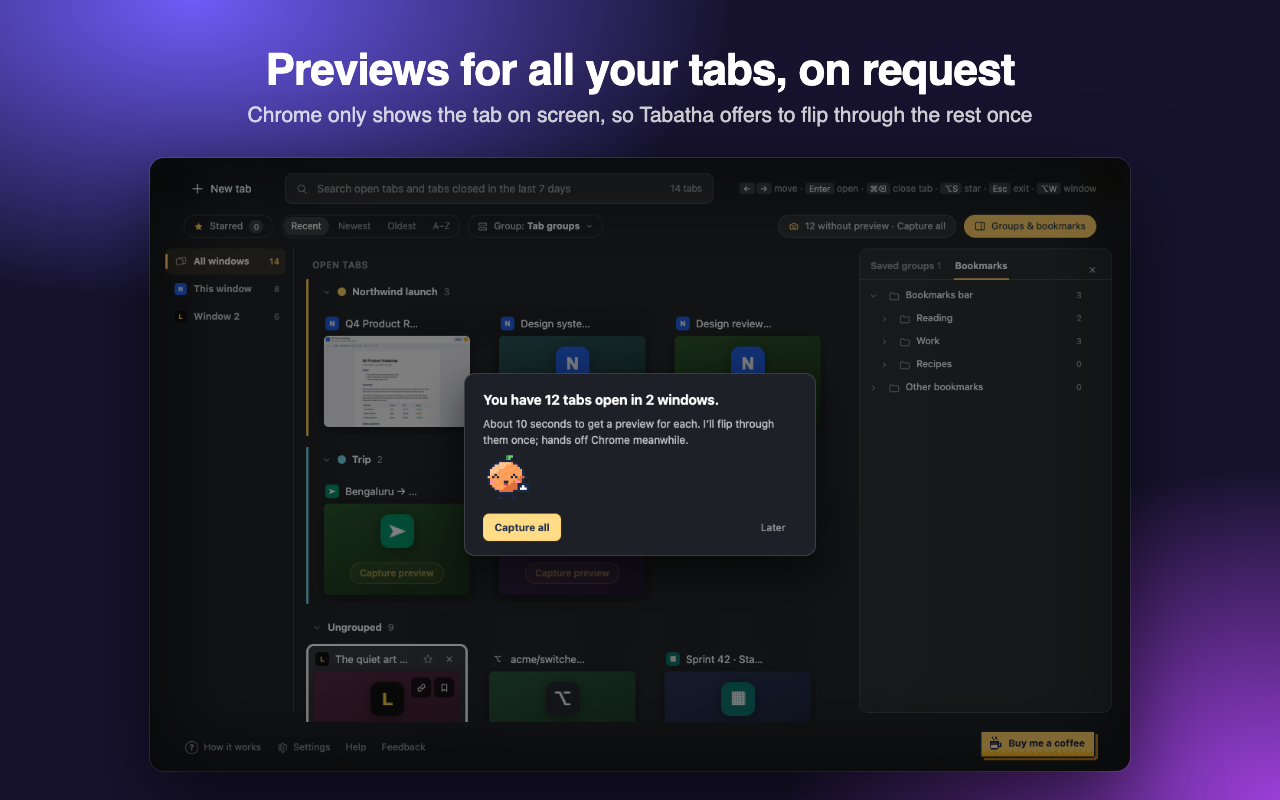
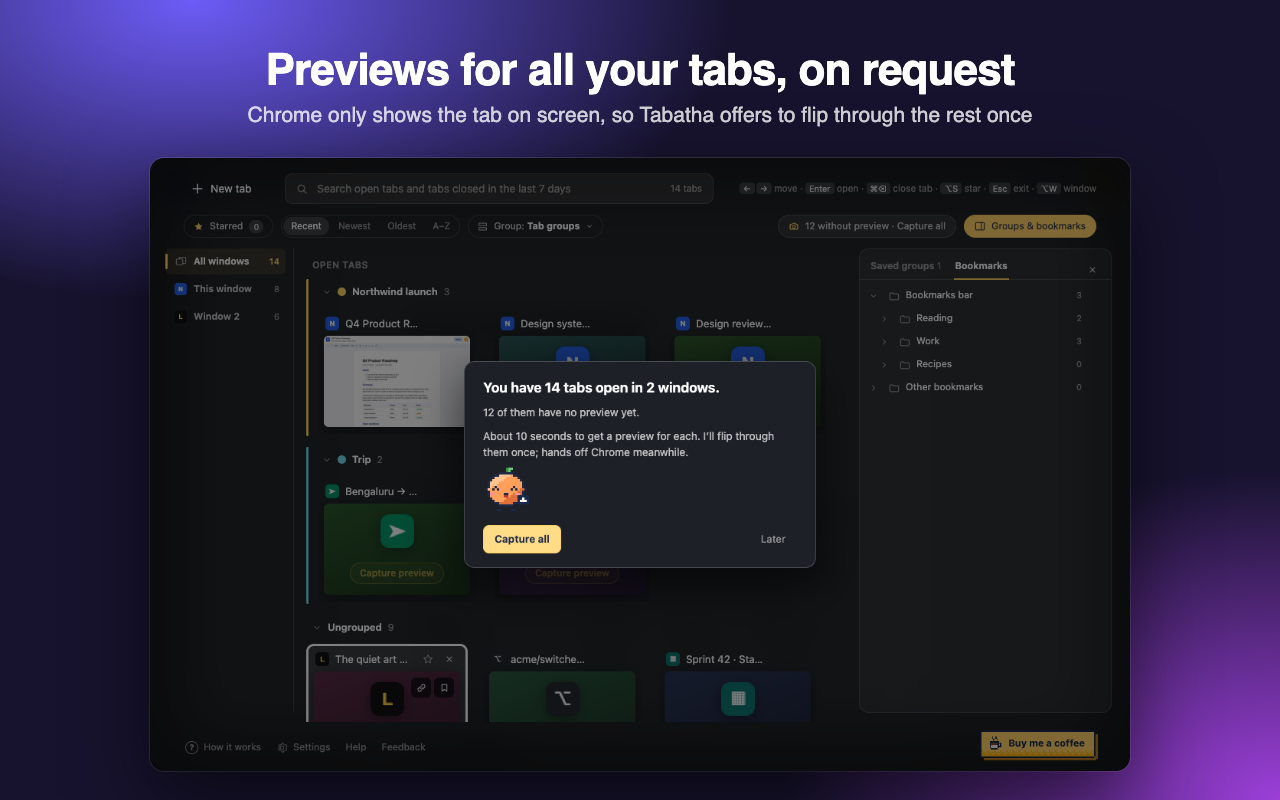
Capture card: the heading counts every open tab, a line says how many have no preview
"You have 14 tabs open in 2 windows." even when only 12 need a preview; then
"12 of them have no preview yet." (only when some already have one). The tier,
times and buttons still follow the 12. Tests read the real totals from Chrome;
a search leaving only bare tabs shows no extra line. Screenshot 06 regenerated.

Changed region(s): [[0.3438, 0.4375, 0.625, 0.7188], [0.5, 0.6562, 0.6562, 0.7188], [0.5625, 0.4375, 0.625, 0.4688]]

diff --git a/extension/switcher.js b/extension/switcher.js
@@ -2035,7 +2035,8 @@ function capPlan(scoped) {
   const todo = bare.filter(canCapture).sort((x, y) => order.get(x.id) - order.get(y.id));
   const sleeping = bare.filter((x) => x.discarded).length;
   const refused = bare.filter((x) => !x.discarded && !canCapture(x)).length;
-  return { todo, sleeping, refused, wins: new Set(todo.map((x) => x.windowId)).size, here: todo.filter((x) => x.windowId === CTX.srcWin) };
+  // total/wins: every tab the card is about (with or without a preview), for the heading; the tier follows todo.length.
+  return { todo, sleeping, refused, total: pool.length, wins: new Set(pool.map((x) => x.windowId)).size, here: todo.filter((x) => x.windowId === CTX.srcWin) };
 }
 // More than half of the open tabs Tabatha could capture have no preview (an updater gets the card then).
 function mostlyBare() {
@@ -2047,30 +2048,30 @@ function mostlyBare() {
 function offerCapture({ scoped = false, first = false, walk = null } = {}) {
   const plan = capPlan(scoped);
   if (!plan || !plan.todo.length) return false;
-  const n = plan.todo.length, w = plan.wins;
+  const n = plan.todo.length, w = plan.wins, all = plan.total; // n picks the tier, times and buttons; all is what the heading counts
   const answered = () => (first ? updateOnboard({ cap: VERSION }).catch(() => {}) : Promise.resolve());
   const later = async () => { await answered(); closeDialog(); if (walk !== null) startWalk(walk); };
   const go = (tabs) => async () => { await answered(); runCapture(tabs.map((x) => x.id), { scoped, walk }); };
   let head, body;
   const btns = [];
   if (n <= 10) {
-    head = t('capH1', tabsNoun(n)); body = t('capB1', capTime(n));
+    head = t('capH1', tabsNoun(all)); body = t('capB1', capTime(n));
     btns.push([t('capThem'), go(plan.todo)]);
   } else if (n <= 40) {
-    head = w > 1 ? t('capH2', tabsNoun(n), tn('capWins', w)) : t('capH1', tabsNoun(n)); body = t('capB2', capTime(n));
+    head = w > 1 ? t('capH2', tabsNoun(all), tn('capWins', w)) : t('capH1', tabsNoun(all)); body = t('capB2', capTime(n));
     btns.push([t('capAll'), go(plan.todo)]);
   } else if (n <= 100) {
-    head = w > 1 ? t('capH3', tabsNoun(n), tn('capWins', w)) : t('capH3One', tabsNoun(n)); body = t('capB3', capTime(n));
+    head = w > 1 ? t('capH3', tabsNoun(all), tn('capWins', w)) : t('capH3One', tabsNoun(all)); body = t('capB3', capTime(n));
     btns.push([t('capAllTime', capTime(n, true)), go(plan.todo)]);
     if (w > 1 && plan.here.length && plan.here.length * 2 < n) btns.push([t('capHere', plan.here.length), go(plan.here)]);
   } else {
-    head = t(n <= 300 ? 'capH4' : 'capH5', tabsNoun(n)); body = t(n <= 300 ? 'capB4' : 'capB5', capTime(n), RECENT_FIRST);
+    head = t(n <= 300 ? 'capH4' : 'capH5', tabsNoun(all)); body = t(n <= 300 ? 'capB4' : 'capB5', capTime(n), RECENT_FIRST);
     btns.push([t('capRecent', RECENT_FIRST, capTime(RECENT_FIRST, true)), go(plan.todo.slice(0, RECENT_FIRST))]);
     btns.push([t('capAllN', n, capTime(n, true)), go(plan.todo)]);
   }
   const title = h('h3', '', head);
   title.id = 'dlg-title';
-  const nodes = [title, para(body)];
+  const nodes = [title, ...(n < all ? [h('p', 'capcount', tn('capNoPrev', n))] : []), para(body)]; // "12 of them have no preview yet." only when some already have one
   const notes = [];
   if (plan.sleeping) notes.push(tn('capSleeping', plan.sleeping));
   if (plan.refused) notes.push(tn('capRefused', plan.refused));

diff --git a/extension/lib/msgs/ru.js b/extension/lib/msgs/ru.js
@@ -426,6 +426,10 @@ export default {
 "capRefused_few": "$1 страницы Chrome не даёт мне сфотографировать (например, Web Store).",
 "capRefused_many": "$1 страниц Chrome не даёт мне сфотографировать (например, Web Store).",
 "capRefused_other": "$1 страницы Chrome не даёт мне сфотографировать (например, Web Store).",
+"capNoPrev_one": "У $1 из них пока нет превью.",
+"capNoPrev_few": "У $1 из них пока нет превью.",
+"capNoPrev_many": "У $1 из них пока нет превью.",
+"capNoPrev_other": "У $1 из них пока нет превью.",
 "capDone_one": "Готово: $1 превью.",
 "capDone_few": "Готово: $1 превью.",
 "capDone_many": "Готово: $1 превью.",

diff --git a/extension/lib/msgs/es.js b/extension/lib/msgs/es.js
@@ -364,6 +364,8 @@ export default {
 "capSleeping_other": "$1 pestañas dormidas siguen dormidas (mostrarlas las despertaría).",
 "capRefused_one": "$1 página que Chrome no me deja fotografiar (como la Web Store).",
 "capRefused_other": "$1 páginas que Chrome no me deja fotografiar (como la Web Store).",
+"capNoPrev_one": "$1 de ellas no tiene vista previa todavía.",
+"capNoPrev_other": "$1 de ellas no tienen vista previa todavía.",
 "capDone_one": "Listo: $1 vista previa.",
 "capDone_other": "Listo: $1 vistas previas."
 };

diff --git a/extension/lib/msgs/en.js b/extension/lib/msgs/en.js
@@ -364,6 +364,8 @@ export default {
 "capSleeping_other": "$1 sleeping tabs stay asleep (showing them would wake them).",
 "capRefused_one": "$1 page Chrome won’t let me photograph (like the Web Store).",
 "capRefused_other": "$1 pages Chrome won’t let me photograph (like the Web Store).",
+"capNoPrev_one": "$1 of them has no preview yet.",
+"capNoPrev_other": "$1 of them have no preview yet.",
 "capDone_one": "Done: $1 preview.",
 "capDone_other": "Done: $1 previews."
 };

diff --git a/tools/i18n/ru.py b/tools/i18n/ru.py
@@ -259,6 +259,7 @@ M = {
  "capRefused_few": "$1 страницы Chrome не даёт мне сфотографировать (например, Web Store).",
  "capRefused_many": "$1 страниц Chrome не даёт мне сфотографировать (например, Web Store).",
  "capRefused_other": "$1 страницы Chrome не даёт мне сфотографировать (например, Web Store).",
+ "capNoPrev_one": "У $1 из них пока нет превью.", "capNoPrev_few": "У $1 из них пока нет превью.", "capNoPrev_many": "У $1 из них пока нет превью.", "capNoPrev_other": "У $1 из них пока нет превью.",
  "capDone_one": "Готово: $1 превью.",
  "capDone_few": "Готово: $1 превью.",
  "capDone_many": "Готово: $1 превью.",

diff --git a/tools/i18n/es.py b/tools/i18n/es.py
@@ -222,6 +222,7 @@ M = {
  "capSleeping_other": "$1 pestañas dormidas siguen dormidas (mostrarlas las despertaría).",
  "capRefused_one": "$1 página que Chrome no me deja fotografiar (como la Web Store).",
  "capRefused_other": "$1 páginas que Chrome no me deja fotografiar (como la Web Store).",
+ "capNoPrev_one": "$1 de ellas no tiene vista previa todavía.", "capNoPrev_other": "$1 de ellas no tienen vista previa todavía.",
  "capDone_one": "Listo: $1 vista previa.",
  "capDone_other": "Listo: $1 vistas previas.",
 }

diff --git a/tools/i18n/en.py b/tools/i18n/en.py
@@ -233,6 +233,7 @@ M = {
  "capSleeping_other": "$1 sleeping tabs stay asleep (showing them would wake them).",
  "capRefused_one": "$1 page Chrome won’t let me photograph (like the Web Store).",
  "capRefused_other": "$1 pages Chrome won’t let me photograph (like the Web Store).",
+ "capNoPrev_one": "$1 of them has no preview yet.", "capNoPrev_other": "$1 of them have no preview yet.",
  "capDone_one": "Done: $1 preview.",
  "capDone_other": "Done: $1 previews.",
 }
